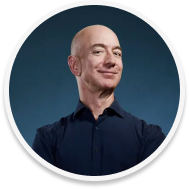
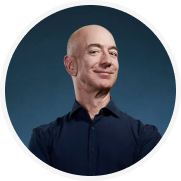
feat: cleared code for login view

diff --git a/src/app/login/styles.module.scss b/src/app/login/styles.module.scss
@@ -1,43 +1,71 @@
 @import '@/app/globals.scss';
 
+.mainLogin  {
+    background: rgb(0,41,44);
+    background: linear-gradient(145deg, rgba(0,41,44,1) 0%, rgba(2,64,68,1) 100%);
+    display: flex;
+    flex-direction: row;
+    justify-content: space-between;
+}
+
+.avatar {
+    border-radius: 50%;
+}
+
+.ceoName    {
+    color: $white-gray;
+    font-family: $m;
+    font-size: 32px;
+}
+
+.ceoTestimony   {
+    color: $white-gray;
+    font-family: $m;
+    font-size: 20px;
+    text-align: center;
+    width: 384px;
+}
+
 .mainLogin {
     width: 100vw;
     height: 100vh;
     display: flex;
-    justify-content: center;
+    justify-content: space-between;
     align-items: center;
 }
 
 .leftLogin{
-    width: 50vw;
-    height: 100vh;
     display: flex;
     justify-content: center;
     align-items: center;
     flex-direction: column;
-}
-
-.leftLogin > h1 {
-    color: rgb(0, 0, 0);
+    gap: 32px;
 }
 
 .rightLogin{
-    width: 50vw;
-    height: 100vh;
-    display: flex;
-    justify-content: center;
     align-items: center;
+    background-color: $dark-gray;
+    border-radius: 15px;
+    display: flex;
+    flex-direction: column;
+    justify-content: center;
+    height: 580px;
+    width: 731px;
+
+
+    @media(max-width: 1440px)   {
+        height: 480px;
+        width: 620px;
+    }
 }
 
 .cardLogin{
-    width: 60%;
     display: flex;
     justify-content: center;
     flex-direction: column;
     padding: 30px 35px;
     background:  #1E232C;
     border-radius: 20px;
-    box-shadow: 0px 10px 40px rgb(30, 235, 11)23;
 }
 
 .cardLogin > h1 {
@@ -46,13 +74,11 @@
     margin: 0;
 }
 
-.textfield{
+.textField  {
     display: flex;
     flex-direction: column;
     align-items: flex-start;
     justify-content: center;
-    margin: 10px 0px;
-
 }
 
 .textfield > input{

diff --git a/src/app/login/page.tsx b/src/app/login/page.tsx
@@ -3,18 +3,16 @@ import styles from './styles.module.scss'
 
 export default function LoginScreen() {
   return (
-    <div className={styles.mainLogin}>
+    <section className={styles.mainLogin}>
         <div className={styles.leftLogin}>
-            <img src="rapazzz.svg" alt="jeff-bezos" />
-            <h1><br/>JEFFREY BEZOS</h1>
-            <text>
+            <img src="/login/jeff-bezos.jpg" alt="jeff-bezos" className={styles.avatar} />
+            <h1 className={styles.ceoName}>JEFFREY BEZOS</h1>
+            <text className={styles.ceoTestimony}>
               “Graças ao Dev’s Den, minha equipe conseguiu achar os desenvolvedores certos em tempo recorde! As ferramentas do site ajudam que o candidato certo venha para a vaga certa. Não tem erro!”
             </text>
         </div>
         <div className={styles.rightLogin}>
-            <div className={styles.cardLogin}>
                 <div className={styles.textField}>
-                    <h1>LOGIN</h1>
                     <label htmlFor="usuario">Usuario</label>
                     <input type="text" name="Usuario" placeholder="Usuario" />
                 </div>
@@ -22,9 +20,8 @@ export default function LoginScreen() {
                     <label htmlFor="senha">Senha</label>
                     <input type="password" name="senha" placeholder="Senha" />
                 </div>
-                <Button text="Login"  />
-            </div>
+                <Button text="ENTRAR"  />
         </div>
-    </div>
+    </section>
   );
 }

diff --git a/src/app/layout.tsx b/src/app/layout.tsx
@@ -1,8 +1,6 @@
 import type { Metadata } from "next";
-import { Inter } from "next/font/google";
 import "./globals.scss";
 
-const inter = Inter({ subsets: ["latin"] });
 
 export const metadata: Metadata = {
   title: "Dev's Den",
@@ -16,7 +14,7 @@ export default function RootLayout({
 }>) {
   return (
     <html lang="en">
-      <body className={inter.className}>{children}</body>
+      <body>{children}</body>
     </html>
   );
 }
